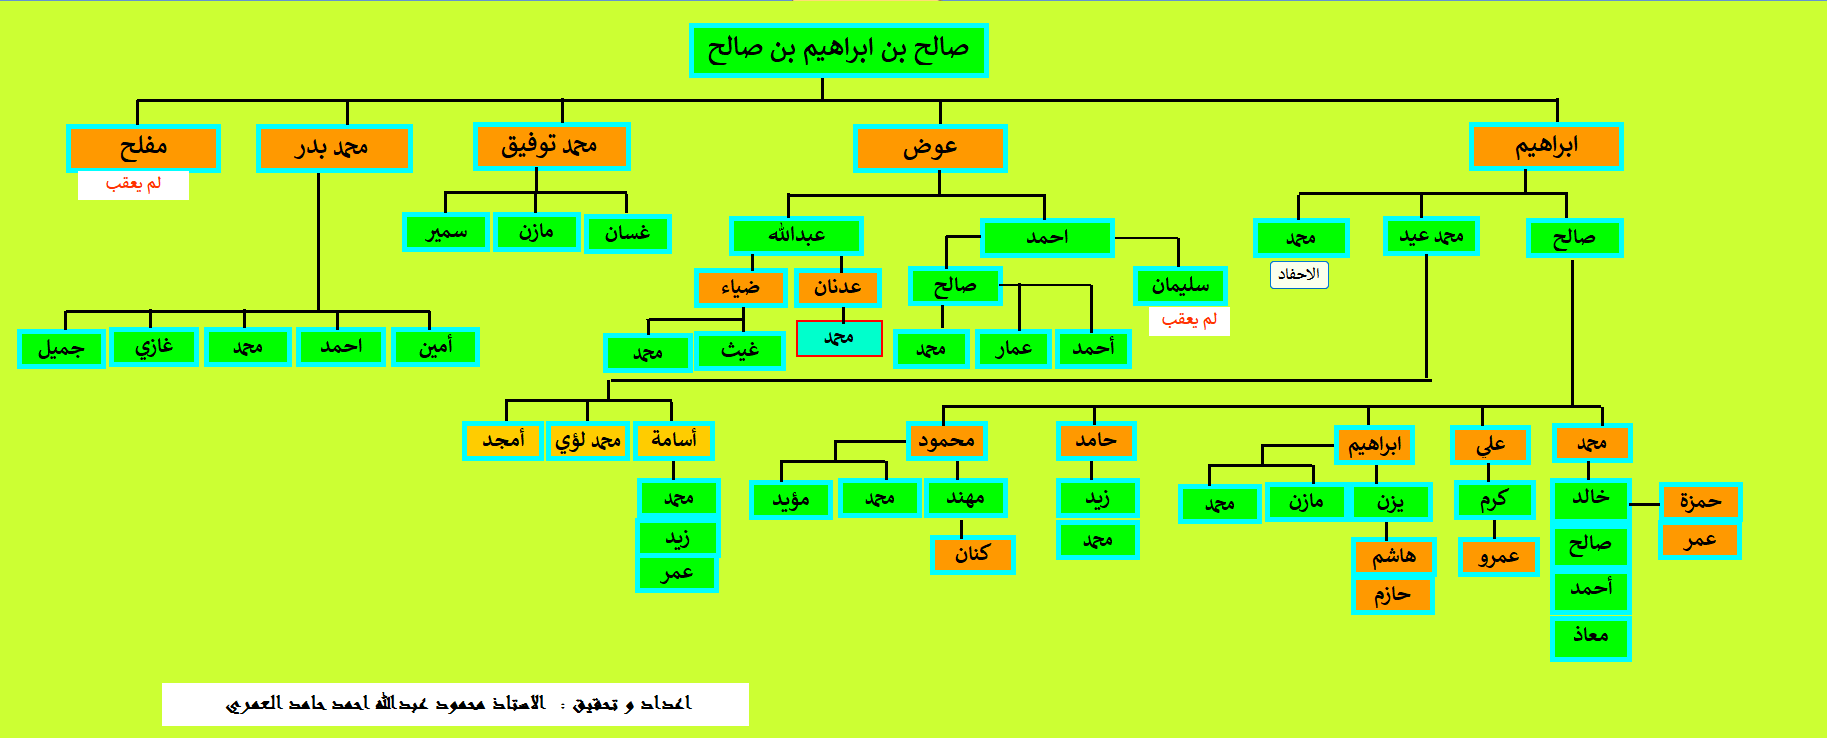
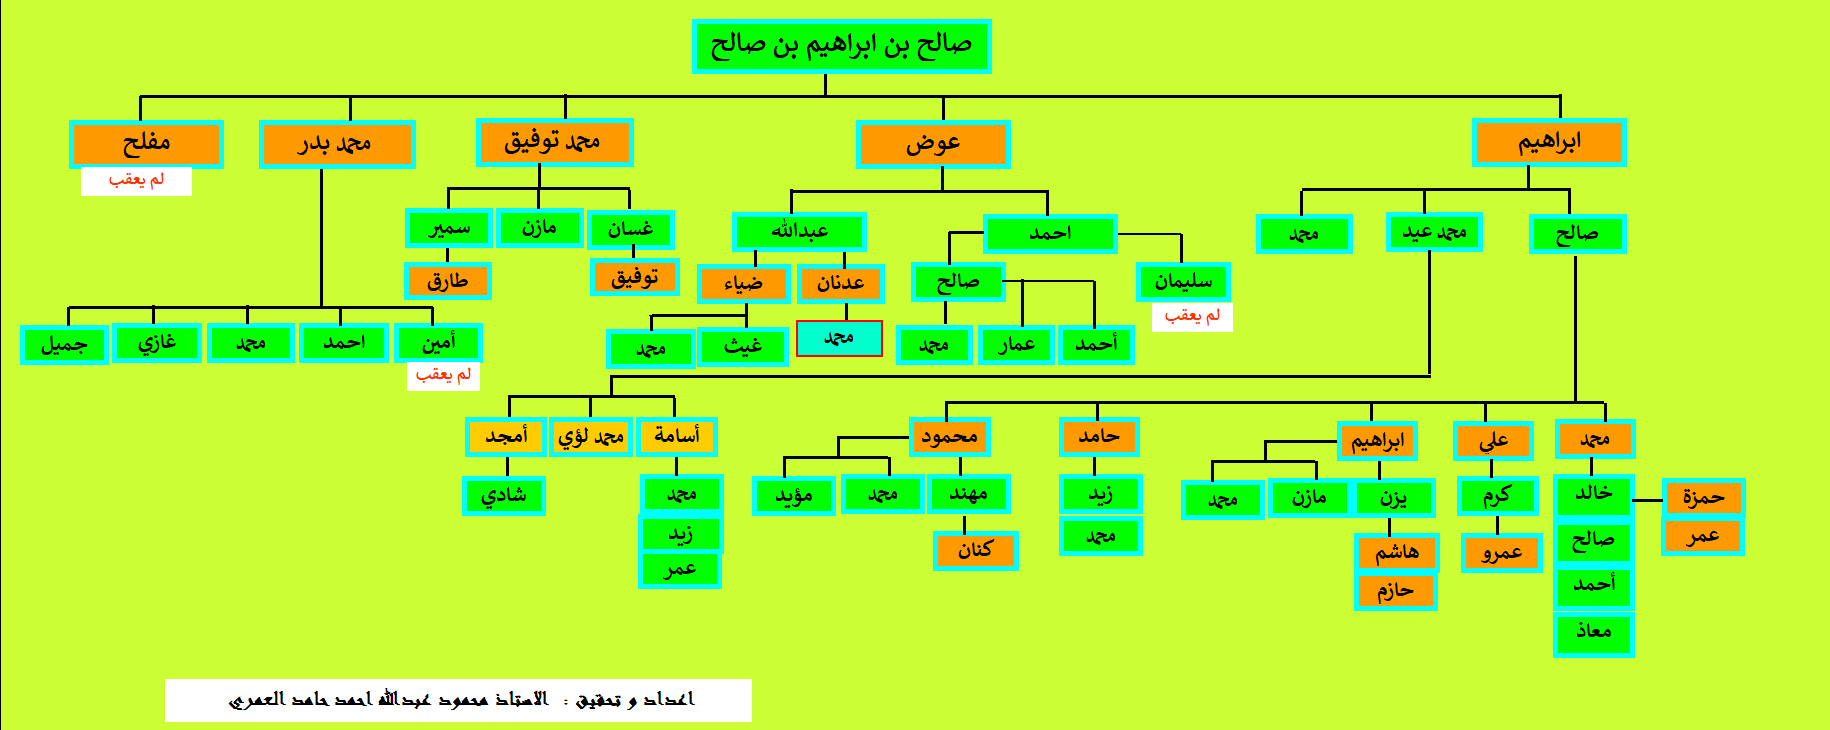
update

Changed region(s): [[0.0, 0.0, 0.9048, 0.8137], [0.6552, 0.5425, 0.9672, 0.9041], [0.0936, 0.9041, 0.4056, 0.9945]]

diff --git a/Mohammed Bader-Sons.html b/Mohammed Bader-Sons.html
@@ -1,0 +1,42 @@
+<!DOCTYPE html PUBLIC "-//W3C//DTD XHTML 1.0 Transitional//EN" "http://www.w3.org/TR/xhtml1/DTD/xhtml1-transitional.dtd">
+<html xmlns="http://www.w3.org/1999/xhtml">
+
+<head>
+<meta content="text/html; charset=utf-8" http-equiv="Content-Type" />
+<title>النسب العمري ظ آل الزقط في سمر</title>
+<script type="text/javascript">
+<!--
+function FP_preloadImgs() {//v1.0
+ var d=document,a=arguments; if(!d.FP_imgs) d.FP_imgs=new Array();
+ for(var i=0; i<a.length; i++) { d.FP_imgs[i]=new Image; d.FP_imgs[i].src=a[i]; }
+}
+
+function FP_swapImg() {//v1.0
+ var doc=document,args=arguments,elm,n; doc.$imgSwaps=new Array(); for(n=2; n<args.length;
+ n+=2) { elm=FP_getObjectByID(args[n]); if(elm) { doc.$imgSwaps[doc.$imgSwaps.length]=elm;
+ elm.$src=elm.src; elm.src=args[n+1]; } }
+}
+
+function FP_getObjectByID(id,o) {//v1.0
+ var c,el,els,f,m,n; if(!o)o=document; if(o.getElementById) el=o.getElementById(id);
+ else if(o.layers) c=o.layers; else if(o.all) el=o.all[id]; if(el) return el;
+ if(o.id==id || o.name==id) return o; if(o.childNodes) c=o.childNodes; if(c)
+ for(n=0; n<c.length; n++) { el=FP_getObjectByID(id,c[n]); if(el) return el; }
+ f=o.forms; if(f) for(n=0; n<f.length; n++) { els=f[n].elements;
+ for(m=0; m<els.length; m++){ el=FP_getObjectByID(id,els[n]); if(el) return el; } }
+ return null;
+}
+// -->
+</script>
+</head>
+
+<body style="background-color: #CCFF33" onload="FP_preloadImgs(/*url*/'button3261.gif',/*url*/'button3262.gif')">
+
+<div id="layer1" style="position: absolute; width: 120px; height: 25px; z-index: 1; left: 10px; top: 15px">
+	<a href="index.html">
+	<img id="img1" alt="الصفحة الرئيسية" height="23" onmousedown="FP_swapImg(1,0,/*id*/'img1',/*url*/'button3262.gif')" onmouseout="FP_swapImg(0,0,/*id*/'img1',/*url*/'button3263.gif')" onmouseover="FP_swapImg(1,0,/*id*/'img1',/*url*/'button3261.gif')" onmouseup="FP_swapImg(0,0,/*id*/'img1',/*url*/'button3261.gif')" src="button3263.gif" style="border: 0" width="115" /><!-- MSComment="ibutton" fp-style="fp-btn: Metal Capsule 3; fp-font-style: Bold; fp-font-size: 8; fp-transparent: 1" fp-title="الصفحة الرئيسية" --></a></div>
+<img alt="" height="726" src="Mohammed%20Bader-Sons.png" width="1830" />
+
+</body>
+
+</html>

diff --git a/Saleh-ben-Ibraheem.html b/Saleh-ben-Ibraheem.html
@@ -30,7 +30,7 @@ function FP_getObjectByID(id,o) {//v1.0
 </script>
 </head>
 
-<body style="background-color: #CCFF33" onload="FP_preloadImgs(/*url*/'button3197.gif',/*url*/'button3198.gif',/*url*/'button3240.gif',/*url*/'button3241.gif')">
+<body style="background-color: #CCFF33" onload="FP_preloadImgs(/*url*/'button3197.gif',/*url*/'button3198.gif',/*url*/'button3240.gif',/*url*/'button3241.gif',/*url*/'button3258.gif',/*url*/'button3259.gif')">
 
 <div id="layer1" style="position: absolute; width: 115px; height: 35px; z-index: 1; left: 10px; top: 15px">
 	<a href="index.html">
@@ -38,6 +38,9 @@ function FP_getObjectByID(id,o) {//v1.0
 		<a href="Mohammed-ben-Ibraheem-Ben%20Saleh.html">
 		<img id="img2" alt="الأحفاد" height="20" onmousedown="FP_swapImg(1,0,/*id*/'img2',/*url*/'button3241.gif')" onmouseout="FP_swapImg(0,0,/*id*/'img2',/*url*/'button3242.gif')" onmouseover="FP_swapImg(1,0,/*id*/'img2',/*url*/'button3240.gif')" onmouseup="FP_swapImg(0,0,/*id*/'img2',/*url*/'button3240.gif')" src="button3242.gif" style="border: 0" width="100" /><!-- MSComment="ibutton" fp-style="fp-btn: Metal Capsule 6; fp-font-style: Bold; fp-font-size: 8; fp-transparent: 1" fp-title="الأحفاد" --></a></div>
 </div>
+<div id="layer3" style="position: absolute; width: 235px; height: 65px; z-index: 2; left: 115px; top: 345px">
+	<a href="Mohammed%20Bader-Sons.html">
+	<img id="img3" alt="===========  الأحفاد =========" height="44" onmousedown="FP_swapImg(1,0,/*id*/'img3',/*url*/'button3259.gif')" onmouseout="FP_swapImg(0,0,/*id*/'img3',/*url*/'button3260.gif')" onmouseover="FP_swapImg(1,0,/*id*/'img3',/*url*/'button3258.gif')" onmouseup="FP_swapImg(0,0,/*id*/'img3',/*url*/'button3258.gif')" src="button3260.gif" style="border: 0" width="220" /><!-- MSComment="ibutton" fp-style="fp-btn: Metal Capsule 6; fp-font-style: Bold; fp-font-size: 8; fp-transparent: 1" fp-title="===========  الأحفاد =========" --></a></div>
 <img alt="" height="662" src="Saleh-ben-Ibraheem.png" width="1683" />
 
 </body>
